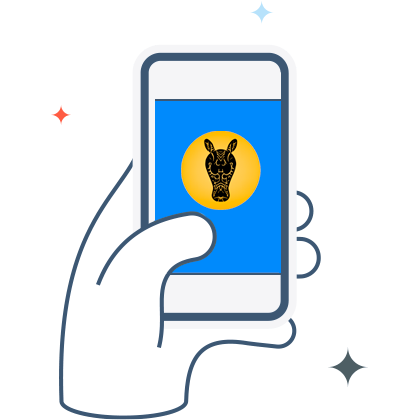
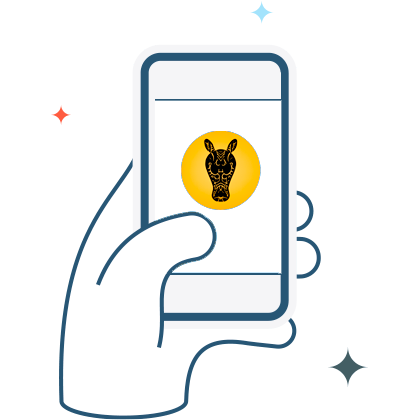
se cambian descripciones y se cambian imagenes
se cambian algunos estilos de imagenes del splashscreen y se hacen cambio en las descripciones del splashscreen

Changed region(s): [[0.3714, 0.2167, 0.681, 0.65]]

diff --git a/src/pages/tutorial/tutorial.ts b/src/pages/tutorial/tutorial.ts
@@ -32,9 +32,9 @@ export class TutorialPage {
         console.log('Loaded values', values);
         this.slides = [
           {
-            title: values.TUTORIAL_SLIDE1_TITLE,
-            description: values.TUTORIAL_SLIDE1_DESCRIPTION,
-            image: 'assets/img/ica-slidebox-img-1.png',
+            title: 'Bienvenido a NicApp',
+            description: 'Busca, interactua y disfruta con todo lo que te ofrecemos',
+            image: 'assets/icon/Logotipo.png',
           },
           {
             title: values.TUTORIAL_SLIDE2_TITLE,
